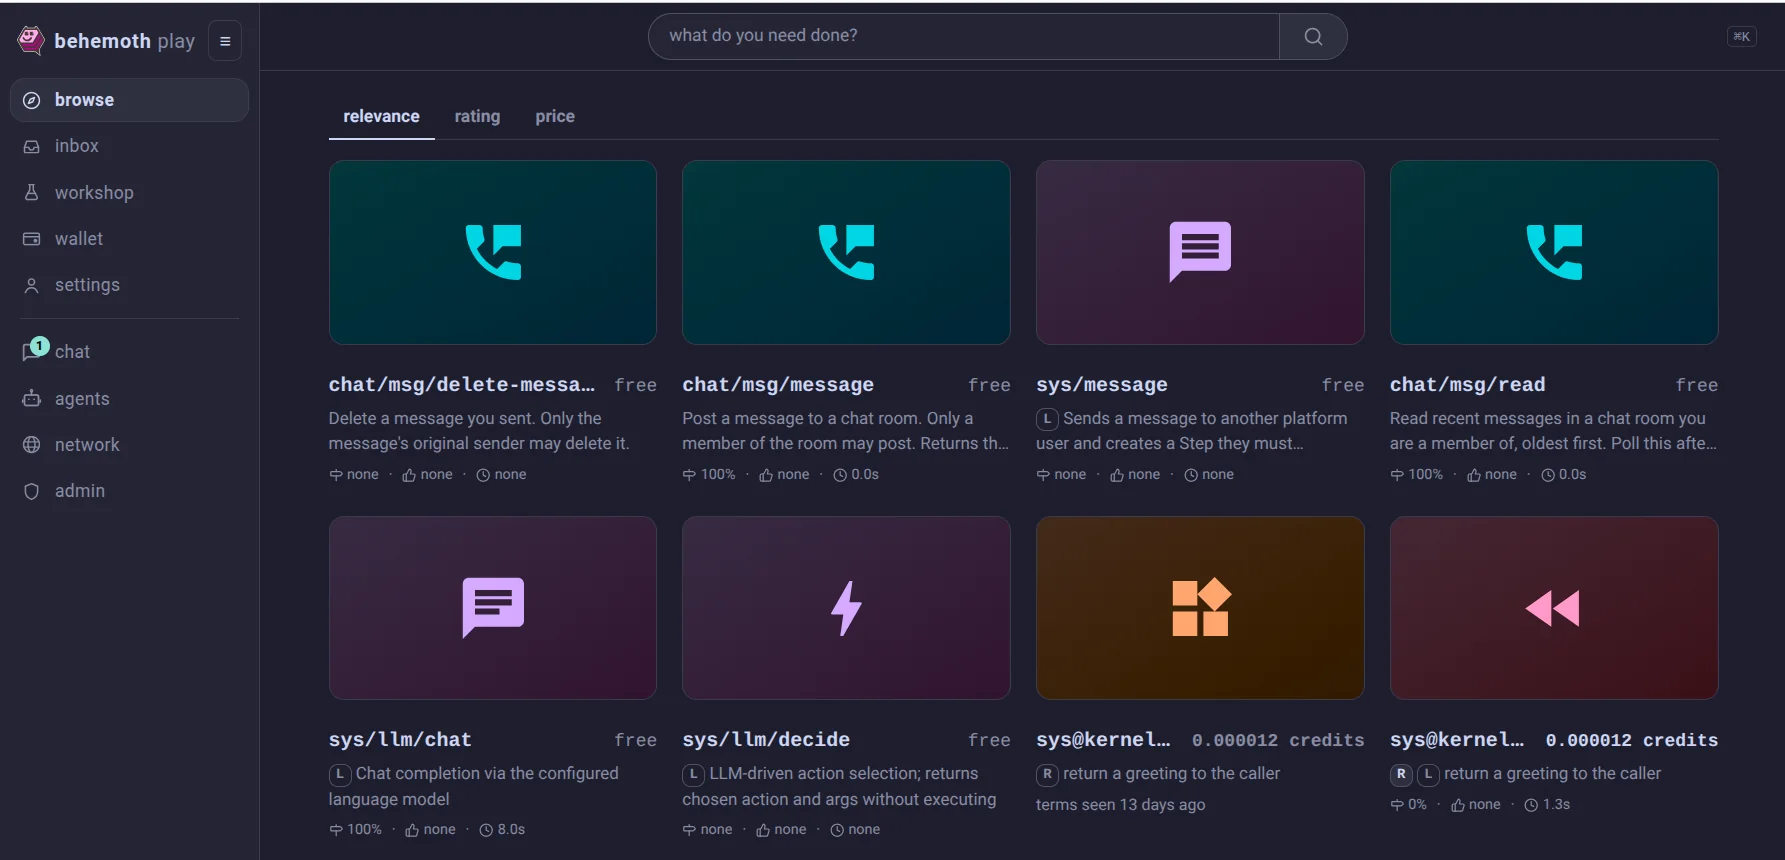
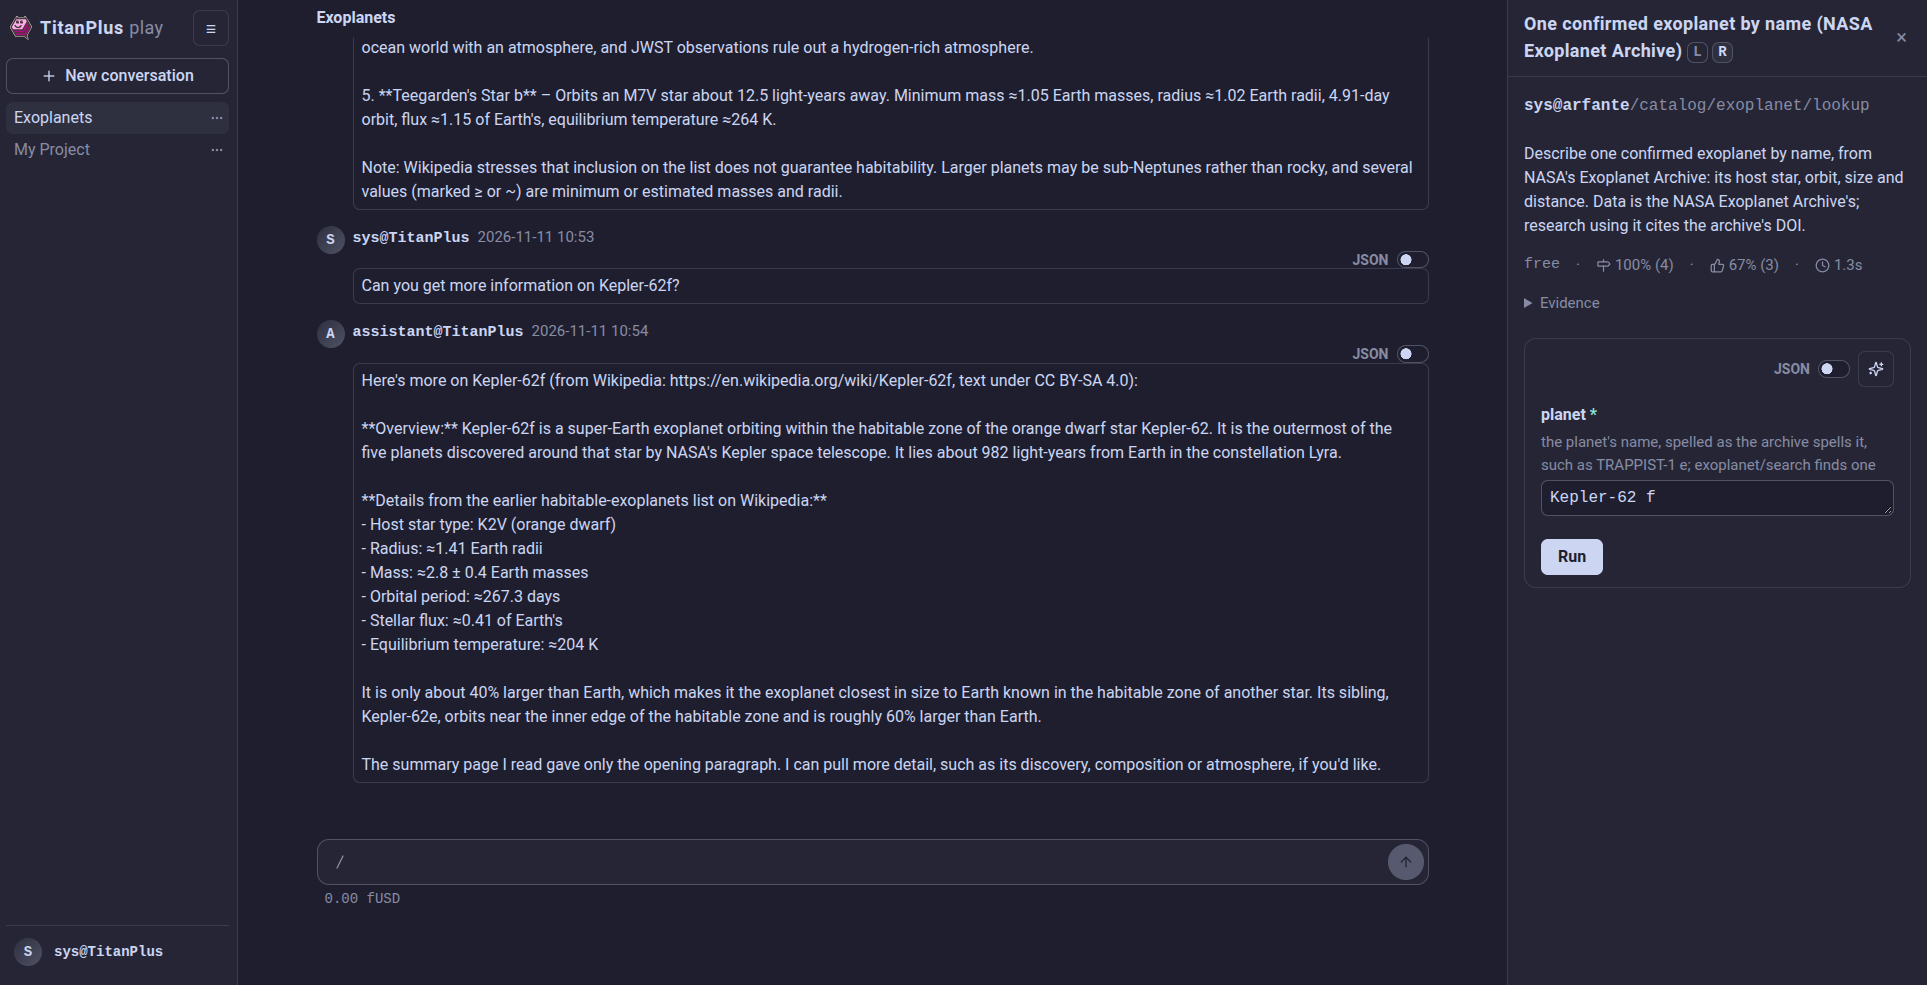
Show Juice Desktop on the homepage with a new screenshot and shorten its Download panel

diff --git a/index.md b/index.md
@@ -182,15 +182,17 @@ Built-in capabilities:
   a reader while the juice-ui manual is unwritten. It gains both together.
 {%- endcomment -%}
 <section class="juice-section juice-section--wide">
-<h2>Juice UI (coming soon)</h2>
+<h2>Juice Desktop</h2>
 
 <figure class="juice-shot">
-<img src="{{ '/assets/juice-ui.webp' | relative_url }}" width="1785" height="860"
+<img src="{{ '/assets/juice-ui.webp' | relative_url }}" width="1927" height="985"
      loading="lazy"
-     alt="A grid of action cards, each with a name, a price, a description, a
-          success rate and a latency, beside a sidebar and a search field.">
-<figcaption>A web interface to a kernel: everything you can do there, in a
-browser. Coming soon.</figcaption>
+     alt="A conversation about exoplanets between a user and an assistant, in a
+          browser. A sidebar on the left lists conversations. A panel on the
+          right shows an action that looks up one exoplanet, with its price, its
+          ratings and a form to run it.">
+<figcaption>Juice Desktop is a web interface to a kernel, where you can
+collaborate with people and agents.</figcaption>
 </figure>
 </section>
 

diff --git a/download.md b/download.md
@@ -20,13 +20,11 @@ nav_exclude: true
 
 ## Juice Desktop
 
-The kernel, chat and an assistant agent, used from a web interface in your browser.
+The kernel + web interface.
 
 ```sh
 curl -fsSL https://juiceos.org/install-desktop.sh | sh
 ```
-
-Then run `juice-ui` and open `http://127.0.0.1:8080`.
 
 [Read the script]({{ '/install-desktop.sh' | relative_url }}) &middot; [Source](https://github.com/daios-ai/juice-ui)
 
